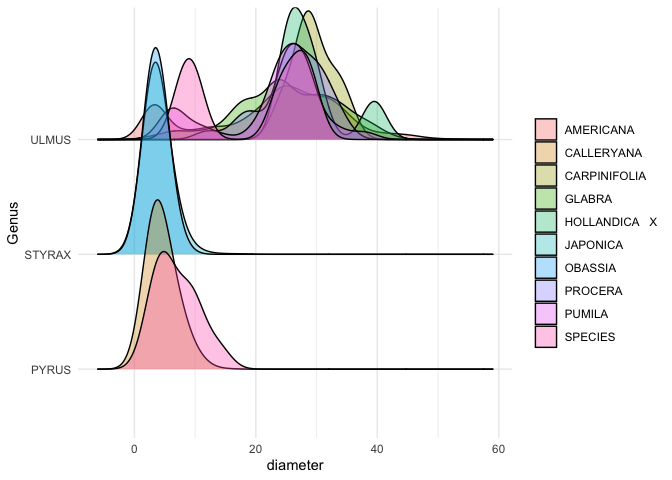
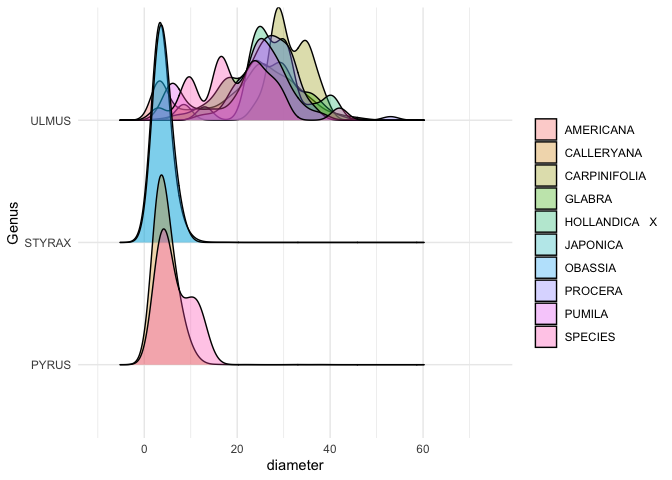
updated question 3 graph to include x-axis limits

diff --git a/Milestone-2-MiniDataAnalysis.md b/Milestone-2-MiniDataAnalysis.md
@@ -487,7 +487,7 @@ for question 4.3 within the [STAT545A worksheet
 # call the dataset 
 vancouver_trees %>% 
 ## filter for the specific tree genus' needed
-  filter(genus_name == c("ULMUS", "STYRAX", "PYRUS")) %>% 
+  filter(genus_name %in% c("ULMUS", "STYRAX", "PYRUS")) %>% 
 ## plot the data using ggplot
 ## x = diameter, y = genus_name
   ggplot(aes(diameter, genus_name)) +
@@ -499,13 +499,14 @@ vancouver_trees %>%
   ylab("Genus") +
   theme_minimal() +
 ## set the colour scheme 
-  scale_fill_discrete("")
+  scale_fill_discrete("") +
+## set x axis limits
+  xlim(-10, 75)
 ```
 
-    ## Warning in genus_name == c("ULMUS", "STYRAX", "PYRUS"): longer object length is
-    ## not a multiple of shorter object length
+    ## Picking joint bandwidth of 1.73
 
-    ## Picking joint bandwidth of 2.01
+    ## Warning: Removed 2 rows containing non-finite values (stat_density_ridges).
 
 ![](Milestone-2-MiniDataAnalysis_files/figure-gfm/unnamed-chunk-9-1.png)<!-- -->
 
